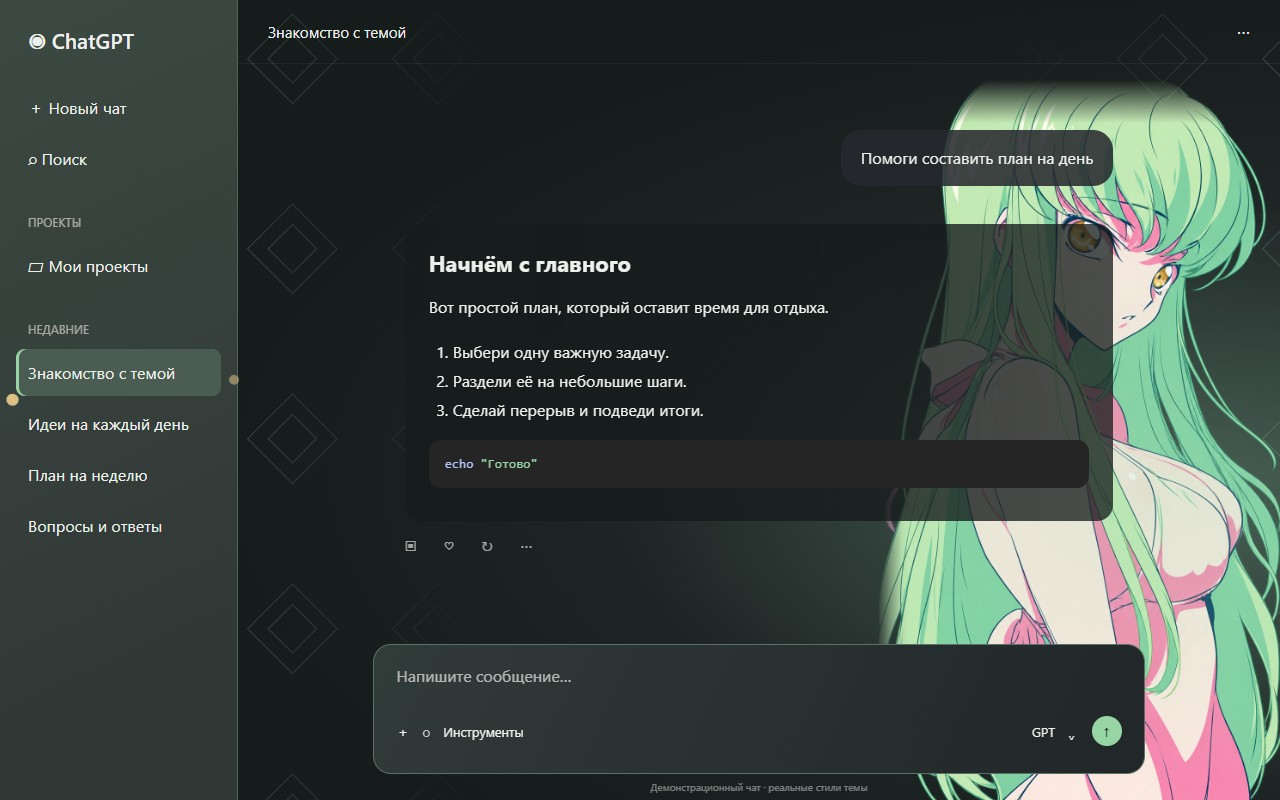
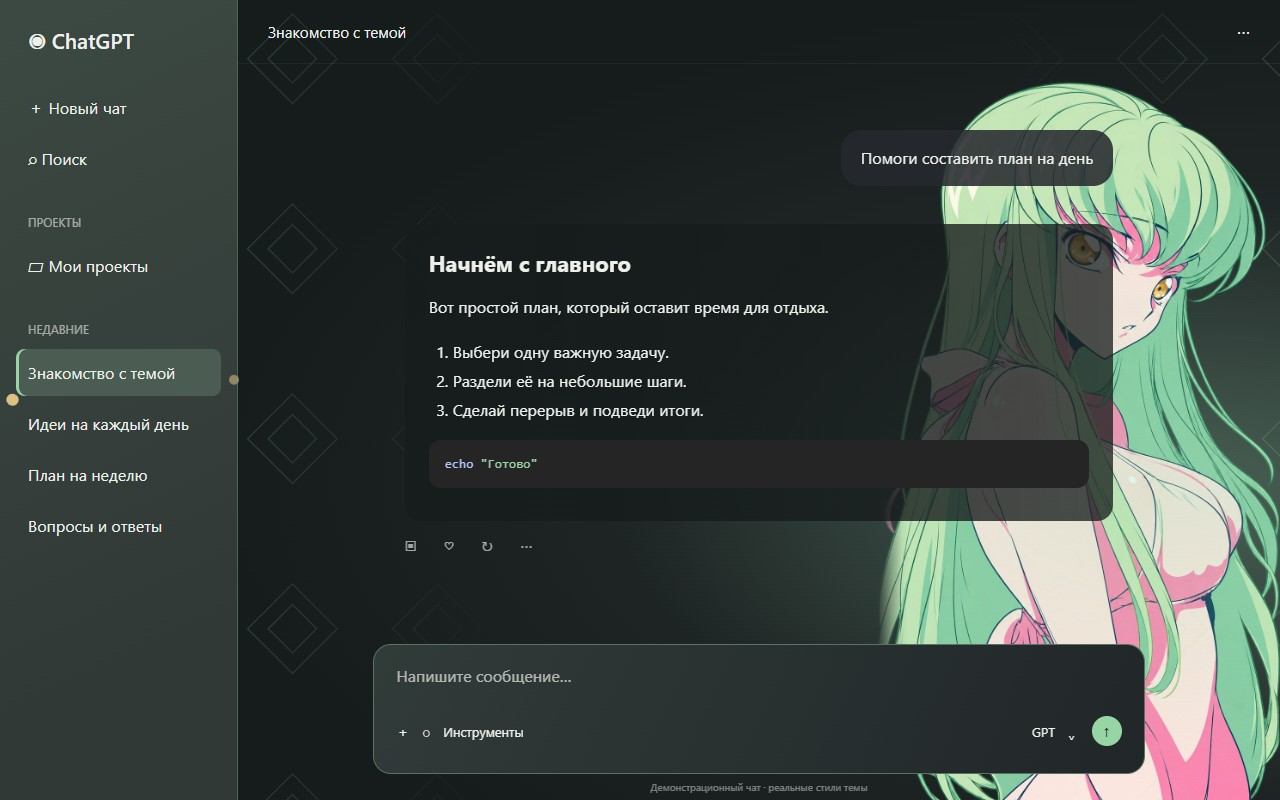
Add Jade Silhouette and refine Mint Contract and Twin Current artwork

diff --git a/themes/tatsumaki-jade-solo/theme.css b/themes/tatsumaki-jade-solo/theme.css
@@ -1,0 +1,214 @@
+html.codex-theme-studio {
+  --ink: color-mix(in srgb, var(--accent) 8%, #f5f2f2);
+  --night: color-mix(in srgb, var(--accent) 7%, #0b0c10);
+  --surface: color-mix(in srgb, var(--accent) 12%, #17171e);
+  --line: color-mix(in srgb, var(--accent) 32%, #282730);
+  accent-color: var(--accent);
+  caret-color: var(--light);
+}
+html.codex-theme-studio body { background: var(--night) !important; color: var(--ink); }
+html.codex-theme-studio .main-surface { background: transparent !important; }
+html.codex-theme-studio .main-surface:not(.main-surface .main-surface) {
+  position: relative; isolation: isolate;
+  background: radial-gradient(ellipse at 100% 60%,var(--surface),var(--night) 72%) !important;
+}
+html.codex-theme-studio .main-surface:not(.main-surface .main-surface)::before {
+  content: ""; position: absolute; z-index: -1; pointer-events: none;
+  inset: auto 0 0 auto; height: 90%; aspect-ratio: var(--ratio); max-width: 100%;
+  background: var(--cts-asset-portrait) right bottom / auto 100% no-repeat;
+  opacity: .44;
+  mask-image: linear-gradient(90deg,transparent,#000 33%),linear-gradient(180deg,transparent,#000 8%);
+  mask-composite: intersect;
+}
+html.codex-theme-studio .app-shell-left-panel {
+  --side-top: color-mix(in srgb,var(--accent) 18%,#211f25);
+  --side-bottom: color-mix(in srgb,var(--accent) 11%,#201f24);
+  --side-edge: var(--line); --side-ink: var(--ink);
+  --side-muted: color-mix(in srgb,var(--accent) 37%,#ccc);
+  --side-hover: color-mix(in srgb,var(--accent) 22%,#252229);
+  --side-selected: color-mix(in srgb,var(--accent) 29%,#252229);
+  --side-selected-text: var(--ink); --side-mark: var(--accent);
+}
+html.codex-theme-studio .app-shell-left-panel {
+  background: linear-gradient(155deg,var(--side-top),var(--side-bottom) 82%) !important;
+  color: var(--side-ink) !important;
+  color-scheme: dark;
+  border-right: 1px solid var(--side-edge) !important;
+  scrollbar-color: var(--side-edge) transparent;
+}
+html.codex-theme-studio .app-shell-left-panel nav {
+  color: var(--side-ink) !important;
+  background: transparent !important;
+}
+html.codex-theme-studio .app-shell-left-panel :where(button,a,[role="button"],span,p,h2,h3,svg) {
+  color: inherit !important;
+}
+html.codex-theme-studio .app-shell-left-panel :is(h2,h3,[role="heading"],[class*="text-token-text-secondary"],[class*="text-token-text-tertiary"]) {
+  color: var(--side-muted) !important;
+}
+html.codex-theme-studio .app-shell-left-panel :is(button:enabled,a,[role="button"]):hover {
+  background-color: var(--side-hover) !important;
+  color: var(--side-ink) !important;
+}
+html.codex-theme-studio .app-shell-left-panel :is([aria-current="page"],[aria-selected="true"],[data-active="true"]),
+html.codex-theme-studio .app-shell-left-panel :is([aria-current="page"],[aria-selected="true"],[data-active="true"]):hover {
+  color: var(--side-selected-text) !important;
+  background: var(--side-selected) !important;
+  box-shadow: inset 3px 0 var(--side-mark);
+}
+html.codex-theme-studio .app-shell-left-panel :focus-visible {
+  outline: 2px solid var(--side-mark) !important;
+  outline-offset: -2px;
+}
+html.codex-theme-studio .app-shell-left-panel :is(hr,[role="separator"]) {
+  border-color: var(--side-edge) !important;
+}
+html.codex-theme-studio .app-shell-left-panel ::selection {
+  color: var(--side-selected-text); background: var(--side-selected);
+}
+
+html.codex-theme-studio .app-shell-left-panel .sidebar-navigation {
+  background: transparent !important;
+}
+html.codex-theme-studio .app-shell-left-panel .sidebar-navigation :is(.text-default,.text-primary,.text-secondary,.text-tertiary,.text-muted,.text-token-text-primary,.text-token-text-secondary) {
+  color: inherit !important;
+}
+html.codex-theme-studio .app-shell-left-panel .sidebar-item[data-app-action-sidebar-thread-selected="true"] {
+  background: var(--side-selected) !important;
+  color: var(--side-selected-text) !important;
+  box-shadow: inset 3px 0 var(--side-mark);
+}
+html.codex-theme-studio .app-shell-left-panel::after,
+html.codex-theme-studio .sidebar-item[data-app-action-sidebar-thread-selected="true"]::before,
+html.codex-theme-studio [data-markdown-text-style] blockquote::before,
+html.codex-theme-studio [data-home-feed-composer] .composer-surface-chrome::before {
+  content: ""; position: absolute; pointer-events: none; z-index: 2;
+  background: var(--cts-asset-charm) center / contain no-repeat;
+}
+html.codex-theme-studio .app-shell-left-panel::after { right: -3px; top: 46%; width: 12px; height: 24px; opacity: .56; }
+html.codex-theme-studio .sidebar-item[data-app-action-sidebar-thread-selected="true"]::before {
+  left: 5px; top: 50%; translate: 0 -50%; width: 15px; height: 15px;
+}
+html.codex-theme-studio [data-markdown-text-style] { color: var(--ink); }
+html.codex-theme-studio [data-local-conversation-final-assistant] [data-markdown-text-style] {
+  background: linear-gradient(90deg,color-mix(in srgb,var(--night) 90%,transparent),color-mix(in srgb,var(--night) 76%,transparent)) top / 100% clamp(0px,calc((100% - 180px)*200),100%) no-repeat; border-radius: 10px;
+}
+html.codex-theme-studio [data-markdown-text-style] blockquote {
+  position: relative; border-inline-start: 1px solid var(--line); padding-inline-start: 1.65em;
+}
+html.codex-theme-studio [data-markdown-text-style] blockquote::before { width: 14px; height: 14px; left: 4px; top: .25em; opacity: .8; }
+html.codex-theme-studio [data-markdown-text-style] a { color: var(--light) !important; text-underline-offset: .2em; }
+html.codex-theme-studio :is(pre,[data-markdown-text-style] :not(pre)>code) { background-color: var(--surface) !important; }
+html.codex-theme-studio :is([role="menu"],[role="dialog"],[role="listbox"],header.app-header-tint) { background-color: var(--surface) !important; }
+html.codex-theme-studio :is([role="menuitem"],[role="option"])[data-highlighted] { background-color: var(--line) !important; }
+html.codex-theme-studio ::selection { background: var(--line); color: white; }
+html.codex-theme-studio :focus-visible { outline-color: var(--accent); }
+html.codex-theme-studio .composer-surface-chrome {
+  position: relative; color: var(--ink); border: 1px solid var(--line) !important;
+  background: linear-gradient(115deg,var(--surface),var(--night)) !important; border-radius: 18px !important;
+}
+html.codex-theme-studio .composer-surface-chrome:focus-within { border-color: var(--accent) !important; }
+html.codex-theme-studio .composer-surface-chrome button[data-cts-composer-action="send"]:enabled { background: var(--accent) !important; color: var(--night) !important; }
+html.codex-theme-studio [data-home-feed-composer] .composer-surface-chrome::before { width: 56px; height: 56px; right: 31px; bottom: calc(100% + 2px); }
+html.codex-theme-studio div:has(> .composer-surface-chrome)::before,
+html.codex-theme-studio div:has(> .composer-surface-chrome)::after {
+  content: ""; pointer-events: none; position: absolute; z-index: 2;
+  width: 13px; height: 15px; top: -9px; clip-path: var(--corner);
+  background: linear-gradient(135deg,var(--light),var(--accent) 45%,var(--line) 49%);
+}
+html.codex-theme-studio div:has(> .composer-surface-chrome)::before { left: 7px; }
+html.codex-theme-studio div:has(> .composer-surface-chrome)::after { right: 7px; transform: scaleX(-1); }
+html.codex-theme-studio .composer-surface-chrome::after {
+  content: var(--sigil) / ""; position: absolute; pointer-events: none; z-index: 3;
+  right: 25px; top: -8px; min-width: 19px; border: 1px solid var(--line); border-radius: 8px;
+  background: var(--surface); color: var(--accent); text-align: center; font: 12px/14px Georgia,serif;
+}
+@property --charm-release { syntax: "<number>"; inherits: false; initial-value: 0; }
+html.codex-theme-studio .composer-surface-chrome:has(button:is([aria-label^="Остановить" i],[aria-label^="Stop" i],[data-cts-composer-action="stop"]):enabled)::after { color: var(--light); border-color: var(--accent); }
+@keyframes charm-breath { 50% { box-shadow: 0 0 7px color-mix(in srgb,var(--light) 50%,transparent); } }
+@media (prefers-reduced-motion: no-preference) {
+  html.codex-theme-studio .composer-surface-chrome::after {
+    --charm-release: 0; transition: --charm-release 850ms ease-out;
+    filter: brightness(calc(1 + .27 * sin(calc(var(--charm-release) * 180deg))));
+  }
+  html.codex-theme-studio .composer-surface-chrome:has(button:is([aria-label^="Остановить" i],[aria-label^="Stop" i],[data-cts-composer-action="stop"]):enabled)::after {
+    --charm-release: 1; transition-duration: 0s; animation: charm-breath var(--tempo) ease-in-out infinite;
+  }
+}
+
+html.codex-theme-studio {
+  --accent: #87bb9b;
+  --light: #bfd8aa;
+  --sigil: "⟡";
+  --ratio: 945 / 1663;
+  --corner: polygon(0 36%,51% 0,99% 36%,72% 93%,30% 100%);
+  --tempo: 2.4s;
+}
+
+/* Let the portrait continue behind the composer footer outside the input. */
+html.codex-theme-studio [data-thread-scroll-footer] .pointer-events-none.absolute.bg-surface,
+html.codex-theme-studio [data-thread-scroll-footer] .pointer-events-none.absolute.bg-surface-secondary {
+  background: transparent !important;
+}
+/* Soft character colors */
+html.codex-theme-studio {
+  --accent: #78c597;
+  --light: #bfdc9f;
+  --surface: color-mix(in srgb, var(--accent) 15%, #17171e);
+  --night: color-mix(in srgb, var(--accent) 8%, #0b0c10);
+  --line: color-mix(in srgb, var(--accent) 37%, #282730);
+}
+html.codex-theme-studio .app-shell-left-panel {
+  --side-top: color-mix(in srgb, #78c597 23%, #211f25);
+  --side-bottom: color-mix(in srgb, #78c597 14%, #201f24);
+  --side-edge: color-mix(in srgb, #78c597 35%, #282730);
+  --side-hover: color-mix(in srgb, #78c597 25%, #252229);
+  --side-selected: color-mix(in srgb, #78c597 33%, #252229);
+  --side-mark: #78c597;
+}
+html.codex-theme-studio .composer-surface-chrome {
+  background: linear-gradient(115deg,
+    color-mix(in srgb, #78c597 19%, #19171f),
+    color-mix(in srgb, #78c597 10%, #14131b)) !important;
+  border-color: color-mix(in srgb, #78c597 42%, #302936) !important;
+}
+html.codex-theme-studio .composer-surface-chrome:focus-within {
+  border-color: color-mix(in srgb, #78c597 73%, #302936) !important;
+}
+/* Keep the editor clear: external badges are clipped by modern composer shells. */
+html.codex-theme-studio .composer-surface-chrome::after {
+  content: none !important;
+  display: none !important;
+}
+html.codex-theme-studio div:has(> .composer-surface-chrome)::before,
+html.codex-theme-studio div:has(> .composer-surface-chrome)::after {
+  content: none !important;
+  display: none !important;
+}
+/* This layer is decorative only; keep the portrait visible behind the footer. */
+html.codex-theme-studio [data-thread-scroll-footer] > .pointer-events-none.absolute.bg-surface {
+  display: none !important;
+}
+
+/* Code panels must not inherit accent-colored borders, rings or shadows. */
+html.codex-theme-studio .main-surface pre,
+html.codex-theme-studio .main-surface :is([data-code-block], .code-block),
+html.codex-theme-studio .main-surface div:has(> pre):not([data-markdown-text-style]) {
+  border-color: transparent !important;
+  box-shadow: none !important;
+  outline: none !important;
+}
+
+/* Keep theme artwork fully visible, including narrow layouts. */
+html.codex-theme-studio .main-surface:not(.main-surface .main-surface)::before,
+html.codex-theme-studio .main-surface:not(.main-surface .main-surface)::after {
+ opacity:1 !important;
+ mask-image:none !important;
+ -webkit-mask-image:none !important;
+}
+
+
+/* Original left portrait from Jade Duo, now alone on the right. */
+html.codex-theme-studio .main-surface:not(.main-surface .main-surface) {background:linear-gradient(#07131a18,#07131a28),var(--cts-asset-landscape) center / cover no-repeat,var(--night)!important;}
+html.codex-theme-studio body .main-surface:not(.main-surface .main-surface)::before {inset:auto 0 0 auto;height:90%;width:min(47%,61vh);aspect-ratio:auto;background:var(--cts-asset-portrait) right bottom / auto 100% no-repeat;mask-image:none!important;-webkit-mask-image:none!important;}
+html.codex-theme-studio .cts-halo,html.codex-theme-studio .cts-atmosphere {display:none!important;}

diff --git a/themes/tidal-halo-duo/theme.css b/themes/tidal-halo-duo/theme.css
@@ -246,5 +246,5 @@ html.codex-theme-studio .main-surface:not(.main-surface .main-surface)::after {
 }
 
 /* Blend only outer seams; keep the portrait center fully opaque. */
-html.codex-theme-studio body .main-surface:not(.main-surface .main-surface)::before {opacity:1 !important;mask-image:linear-gradient(90deg,transparent 0%,#0003 5%,#0009 13%,#000e 23%,#000 32%) !important;-webkit-mask-image:linear-gradient(90deg,transparent 0%,#0003 5%,#0009 13%,#000e 23%,#000 32%) !important;mask-composite:intersect;}
-html.codex-theme-studio body .main-surface:not(.main-surface .main-surface)::after {opacity:1 !important;mask-image:linear-gradient(90deg,#000 0%,#000 68%,#000e 77%,#0009 87%,#0003 95%,transparent 100%) !important;-webkit-mask-image:linear-gradient(90deg,#000 0%,#000 68%,#000e 77%,#0009 87%,#0003 95%,transparent 100%) !important;mask-composite:intersect;}
+html.codex-theme-studio body .main-surface:not(.main-surface .main-surface)::before {opacity:1 !important;mask-image:linear-gradient(90deg,transparent 0%,#0001 7%,#0004 16%,#0009 27%,#000e 38%,#000 46%) !important;-webkit-mask-image:linear-gradient(90deg,transparent 0%,#0001 7%,#0004 16%,#0009 27%,#000e 38%,#000 46%) !important;mask-composite:intersect;}
+html.codex-theme-studio body .main-surface:not(.main-surface .main-surface)::after {opacity:1 !important;mask-image:linear-gradient(90deg,#000 0%,#000 54%,#000e 62%,#0009 73%,#0004 84%,#0001 93%,transparent 100%) !important;-webkit-mask-image:linear-gradient(90deg,#000 0%,#000 54%,#000e 62%,#0009 73%,#0004 84%,#0001 93%,transparent 100%) !important;mask-composite:intersect;}

diff --git a/themes/cc-mint-contract/theme.css b/themes/cc-mint-contract/theme.css
@@ -208,4 +208,4 @@ html.codex-theme-studio .main-surface:not(.main-surface .main-surface)::after {
 }
 
 /* Audited portrait seams: soften only the cropped outer margin. */
-html.codex-theme-studio body .main-surface:not(.main-surface .main-surface)::before {opacity:1 !important;mask-image:linear-gradient(90deg,transparent 0%,#0003 1.6%,#0009 4%,#000e 6.4%,#000 8%),linear-gradient(180deg,transparent 0%,#000 6%,#000 100%,#000 100%) !important;-webkit-mask-image:linear-gradient(90deg,transparent 0%,#0003 1.6%,#0009 4%,#000e 6.4%,#000 8%),linear-gradient(180deg,transparent 0%,#000 6%,#000 100%,#000 100%) !important;mask-composite:intersect;}
+html.codex-theme-studio body .main-surface:not(.main-surface .main-surface)::before {opacity:1 !important;mask-image:linear-gradient(90deg,transparent 0%,#0003 1.6%,#0009 4%,#000e 6.4%,#000 8%) !important;-webkit-mask-image:linear-gradient(90deg,transparent 0%,#0003 1.6%,#0009 4%,#000e 6.4%,#000 8%) !important;mask-composite:intersect;}

diff --git a/desktop/catalog-filters.js b/desktop/catalog-filters.js
@@ -20,7 +20,7 @@
   ['cc','Си Си','C.C. CC',['cc-mint-contract']],
   ['sylphie','Сильфи','Sylphie Sylphiette Сильфиетта',['sylphie-moonstone']],
   ['sora','Сора','Sora Kasugano Касугано',['sora-ribbon','private-duo']],
-  ['tatsumaki','Татсумаки','Tatsumaki Тацумаки',['tatsumaki-jade','tatsumaki-jade-duo']],
+  ['tatsumaki','Татсумаки','Tatsumaki Тацумаки',['tatsumaki-jade','tatsumaki-jade-duo','tatsumaki-jade-solo']],
   ['fern','Ферн','Fern',['fern-plum-hush','frieren-fern-lilac','violet-silhouette']],
   ['frieren','Фрирен','Frieren',['frieren-sage-heart','frieren-fern-lilac']],
   ['fubuki','Фубуки','Fubuki',['fubuki-velvet']],

diff --git a/README.md b/README.md
@@ -1,7 +1,7 @@
 <div align="center">
   <img src="assets/studio-logo.png" width="104" alt="ZLHRS Theme Studio">
   <h1>ZLHRS Theme Studio</h1>
-  <p>60 тем для настольного ChatGPT.<br>Выберите оформление — Studio запомнит его.<br>А компанию составят 23 кастомных питомца.</p>
+  <p>61 тема для настольного ChatGPT.<br>Выберите оформление — Studio запомнит его.<br>А компанию составят 23 кастомных питомца.</p>
   <p><a href="https://github.com/ZLHRS/codex-anime-themes/releases/latest"><b>Скачать приложение</b></a> · <a href="docs/GALLERY.md">Посмотреть темы</a> · <a href="#установка">Установка</a></p>
 </div>
 
@@ -98,7 +98,7 @@
 - Персонажи больше не приглушаются общей прозрачностью. Плавные переходы используются только на нужных краях.
 - Сохранены нейтральные блоки кода без фиолетовой обводки.
 
-[Все 60 тем с картинками](docs/GALLERY.md) · [История изменений](CHANGELOG.md)
+[61 тема с картинками](docs/GALLERY.md) · [История изменений](CHANGELOG.md)
 
 <details>
 <summary><b>Не получается запустить или применить тему?</b></summary>

diff --git a/docs/GALLERY.md b/docs/GALLERY.md
@@ -2,7 +2,7 @@
 
 [← Установка и скачивание](../README.md)
 
-Все 60 тем входят в готовую сборку. На изображениях — демонстрационный чат.
+В каталоге 61 тема; в сборке 2.6.5 — 60. Jade Silhouette добавлена в исходники после этого выпуска. На изображениях — демонстрационный чат.
 
 ## Ай Хосино · Bunny Refrain
 
@@ -243,3 +243,7 @@
 ## Строгий взгляд · Тёмный изумруд
 
 ![Строгий взгляд · Тёмный изумруд](../previews/emerald-stern-gaze-chat.jpg)
+
+## Тацумаки · Jade Silhouette
+
+![Тацумаки · Jade Silhouette](../previews/tatsumaki-jade-solo-chat.jpg)
